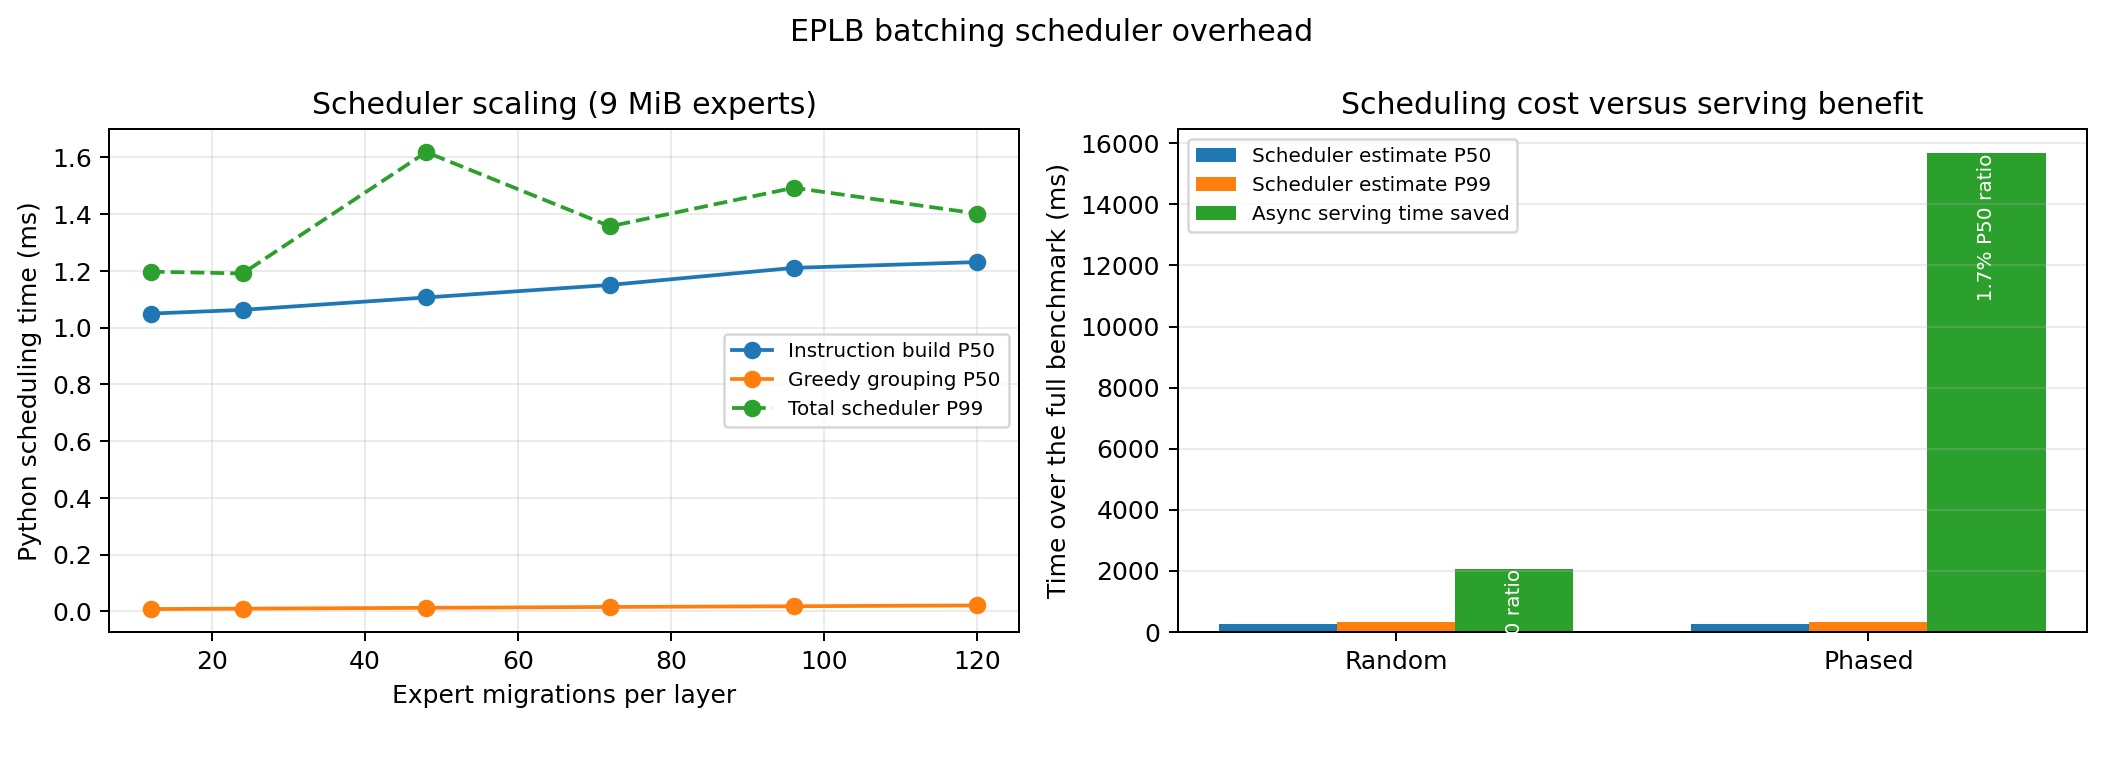
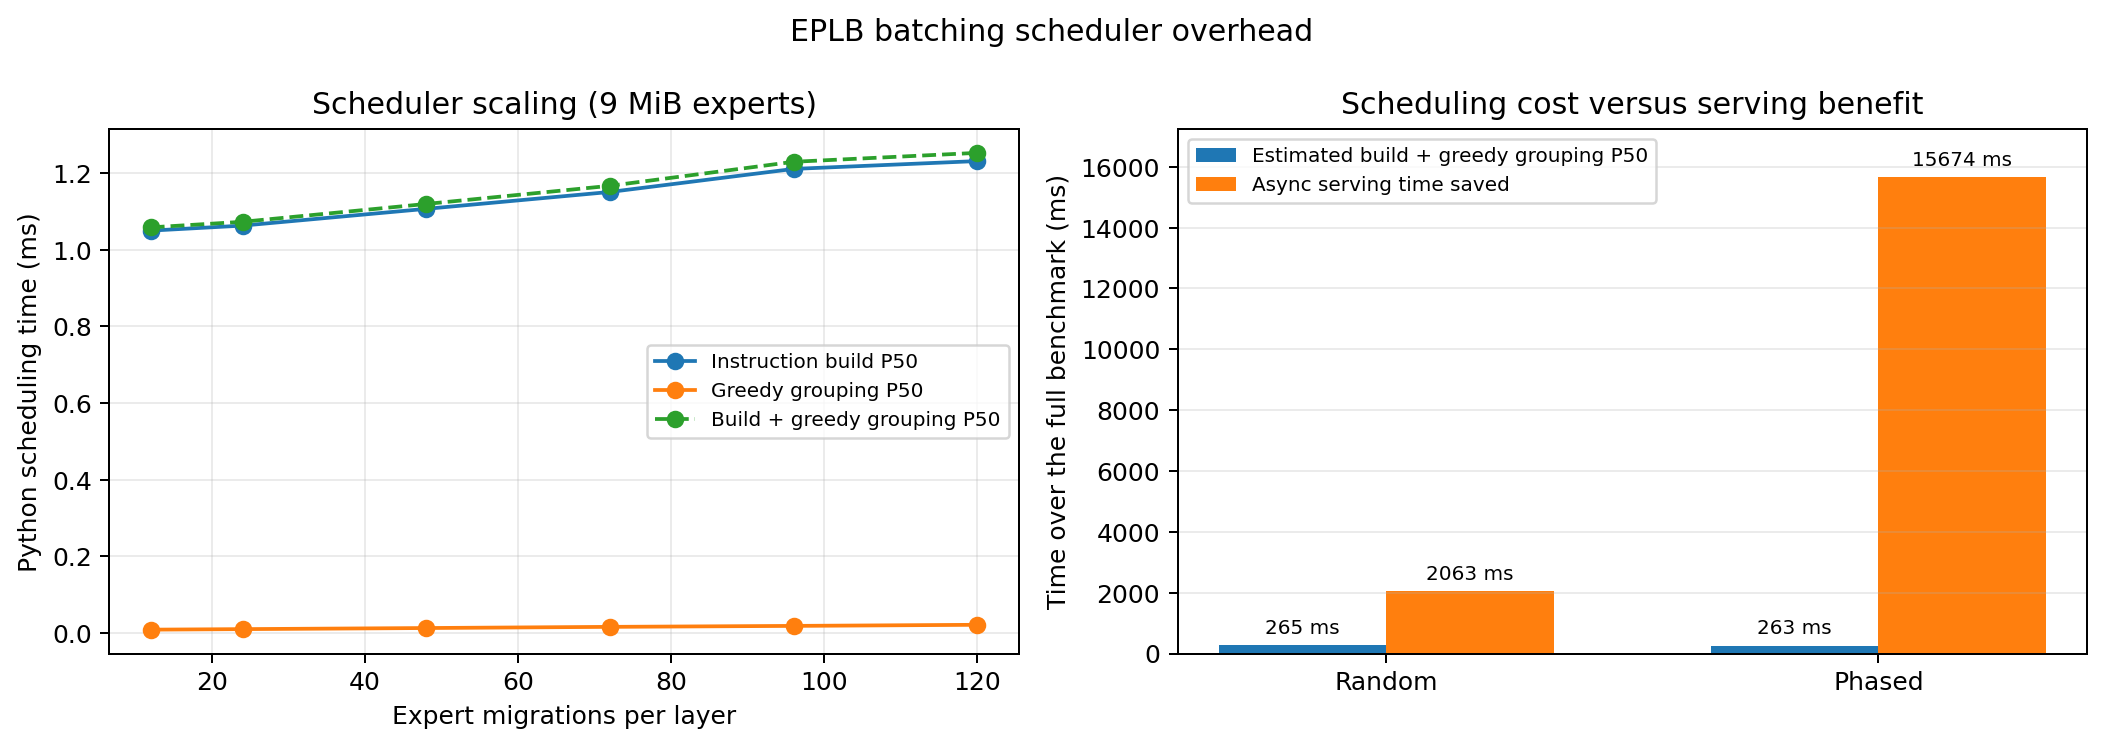
Clarify scheduler cost comparison

diff --git a/benchmarks/eplb_rebalance/analyze_scheduler_scaling.py b/benchmarks/eplb_rebalance/analyze_scheduler_scaling.py
@@ -111,9 +111,9 @@ def plot(
     )
     scheduler.plot(
         migrations,
-        [row["total_p99_ms"] for row in rows],
+        [row["total_p50_ms"] for row in rows],
         "o--",
-        label="Total scheduler P99",
+        label="Build + greedy grouping P50",
     )
     scheduler.set_xlabel("Expert migrations per layer")
     scheduler.set_ylabel("Python scheduling time (ms)")
@@ -123,21 +123,15 @@ def plot(
 
     benefit = axes[1]
     positions = np.arange(len(cost_benefit))
-    width = 0.25
-    benefit.bar(
-        positions - width,
+    width = 0.34
+    scheduler_bars = benefit.bar(
+        positions - width / 2,
         [row["scheduler_p50_ms"] for row in cost_benefit],
         width,
-        label="Scheduler estimate P50",
+        label="Estimated build + greedy grouping P50",
     )
-    benefit.bar(
-        positions,
-        [row["scheduler_p99_ms"] for row in cost_benefit],
-        width,
-        label="Scheduler estimate P99",
-    )
-    benefit.bar(
-        positions + width,
+    saving_bars = benefit.bar(
+        positions + width / 2,
         [row["serving_time_saved_ms"] for row in cost_benefit],
         width,
         label="Async serving time saved",
@@ -148,17 +142,9 @@ def plot(
     benefit.set_title("Scheduling cost versus serving benefit")
     benefit.grid(True, axis="y", alpha=0.25)
     benefit.legend(fontsize=8)
-    for index, row in enumerate(cost_benefit):
-        benefit.text(
-            index + width,
-            row["serving_time_saved_ms"],
-            f"  {row['overhead_ratio_p50_pct']:.1f}% P50 ratio",
-            rotation=90,
-            va="top",
-            ha="center",
-            fontsize=8,
-            color="white",
-        )
+    benefit.bar_label(scheduler_bars, fmt="%.0f ms", padding=3, fontsize=8)
+    benefit.bar_label(saving_bars, fmt="%.0f ms", padding=3, fontsize=8)
+    benefit.margins(y=0.10)
 
     figure.suptitle("EPLB batching scheduler overhead")
     figure.tight_layout()

diff --git a/benchmarks/eplb_rebalance/README.md b/benchmarks/eplb_rebalance/README.md
@@ -290,19 +290,27 @@ by only 0.195 ms from 12 to 120 migrations.
 
 For a like-for-like cost comparison, the analysis reads the migration count of
 every layer from the existing async batching-on server logs, interpolates the
-measured scheduler cost, and sums it over the full benchmark.
+measured P50 scheduler cost, and sums it over the full benchmark:
 
-| Workload | Layer events | Scheduler P50/P99 estimate (ms) | Serving time saved (ms) | P50/P99 overhead ratio |
-| --- | ---: | ---: | ---: | ---: |
-| Random | 215 | 265 / 316 | 2,063 | 12.85% / 15.31% |
-| Phased English | 213 | 263 / 312 | 15,674 | 1.67% / 1.99% |
+```text
+C = sum_i interpolate(P50(build + greedy), expert_migrations_i)
+S = (async_off_duration - async_on_duration) * 1000
+overhead_ratio = C / S * 100%
+```
+
+| Workload | Layer migrations | Expert migrations | Build + greedy P50 estimate (ms) | Serving time saved (ms) | Overhead ratio |
+| --- | ---: | ---: | ---: | ---: | ---: |
+| Random | 215 | 21,669 | 265 | 2,063 | 12.85% |
+| Phased English | 213 | 21,480 | 263 | 15,674 | 1.67% |
 
 Thus the estimated scheduling cost remained below the measured async serving
 time saved in both workloads. The phased workload is more representative of
 production traffic; the random-number workload changes expert load less and
 therefore exercises the batching feature less. These ratios use one existing
 off/on serving run per workload, so they are cost estimates rather than
-confidence-bounded performance claims.
+confidence-bounded performance claims. They are also conservative because
+migration-stat logging builds instructions in the off runs, while the estimate
+charges the full instruction-build and greedy cost to batching.
 
 ![Scheduler cost and benefit](results/nixl_scheduler_scaling_20260904/scheduler_cost_benefit.png)
 
